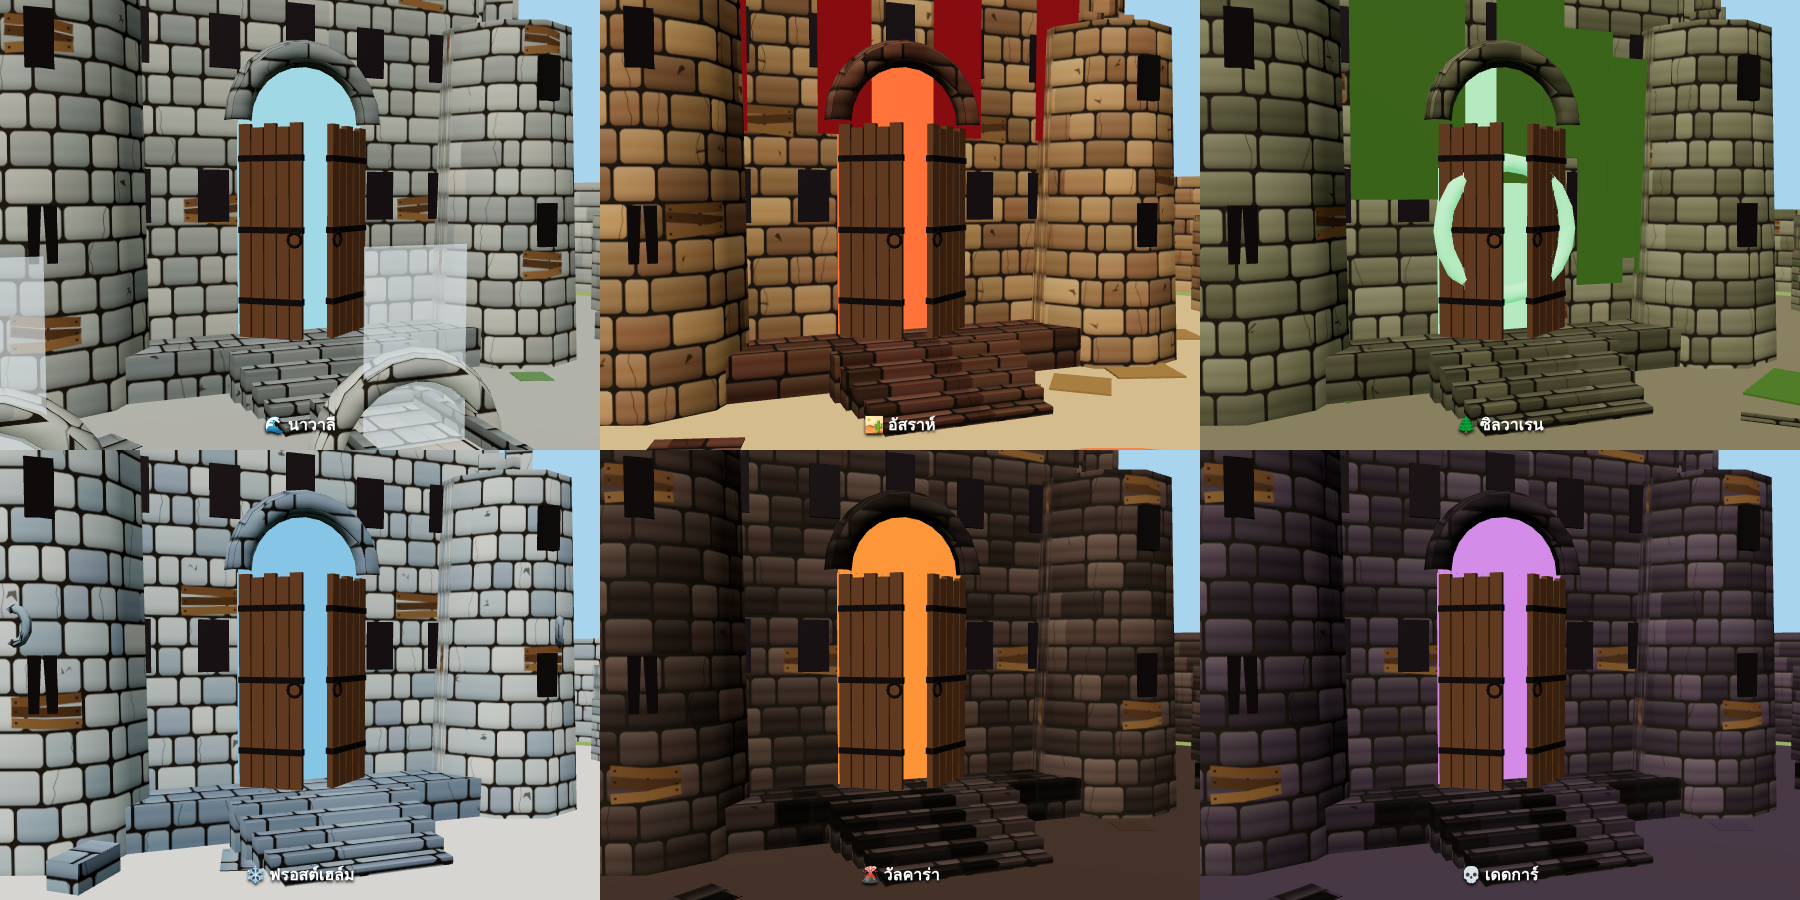
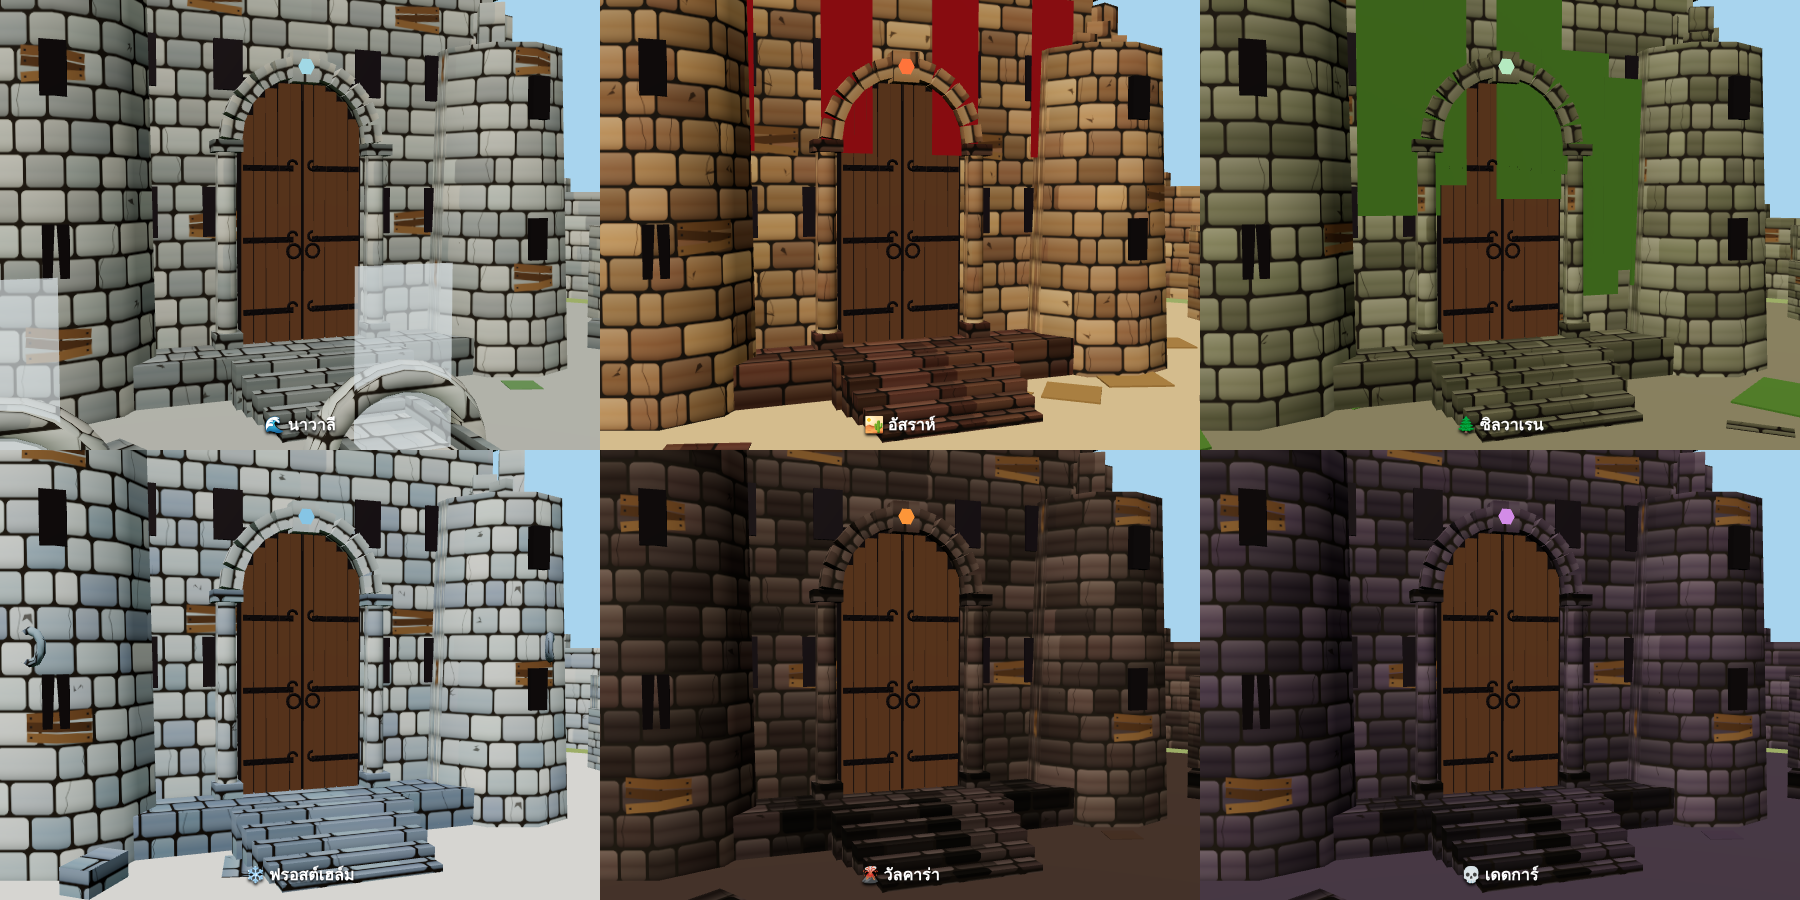
feat(newgame): keep doors closed plank leaves under a wedge-stone arch (strap hinges, studs, rings, columns, a small crest) — no flat light
Claude-Session: https://claude.ai/code/session_01GPWeNez232vT9ersFNk7wt

diff --git a/newgame/src/capitals.js b/newgame/src/capitals.js
@@ -52,15 +52,24 @@ export function buildCapital(k, cx, cz, H, ry = 0) {
   const KZ = -14, KW = 16, KD = 12, KH = 13;
   box(0, 0, KZ, KW + 4, 1.4, KD + 4, M.dark).userData.walk = 1;   /* v3.30.1 the keep's base: stand on it */ box(0, 1.4, KZ, KW, KH, KD, M.stone).userData.roof = 1.4 + KH + 1.2;   /* v3.30.3 a roof you can stand on (landing from the sky never drops you inside) */ box(0, 1.4 + KH, KZ, KW + 1, 1.2, KD + 1, M.dark);
   for (let i = 0; i < 7; i++) box(-KW / 2 + 1.2 + i * (KW - 2.4) / 6, 1.4 + KH + 1.2, KZ + KD / 2 + .2, 1, 1.2, 1, M.dark);   // battlements
-  add(new THREE.BoxGeometry(4.4, 7, .2), M.glow, 0, 1.4 + 3.5, KZ + KD / 2 + .02).userData.nosol = 1; arch(0, 1.4 + 7, KZ + KD / 2 + .55, 2.3, .45, M.dark);   // the doorway (the light inside)
-  { const half = add(new THREE.CircleGeometry(2.2, 20, 0, Math.PI), M.glow, 0, 1.4 + 7, KZ + KD / 2 + .13); half.userData.nosol = 1;   /* the arch above glows too */
-    /* v4.78 designer: "look more like a door" — two old plank leaves standing ajar (opened outwards), iron bands, the light spilling out between them */
-    const z0 = KZ + KD / 2 + .35, a = .62, LW = 2.15, LH = 6.9;
-    for (const sd of [-1, 1]) { const hx = sd * 2.2, dx = -sd * Math.cos(a), dz = Math.sin(a), ryy = sd * a;
-      for (let i = 0; i < 5; i++) { const t = (i + .5) / 5 * LW; const pl = add(new THREE.BoxGeometry(LW / 5 - .04, LH - (i % 2) * .12, .22), M.wood, hx + dx * t, 1.4 + LH / 2 - (i % 2) * .06, z0 + dz * t, 0, ryy, 0); pl.userData.nosol = 1 }
-      for (const yy of [1.2, 3.5, 5.8]) add(new THREE.BoxGeometry(LW, .2, .28), M.void, hx + dx * LW / 2, 1.4 + yy, z0 + dz * LW / 2, 0, ryy, 0).userData.nosol = 1;   // iron bands
-      add(new THREE.TorusGeometry(.22, .05, 6, 12), M.void, hx + dx * (LW - .35), 1.4 + 3.2, z0 + dz * (LW - .35) + .16, 0, ryy, 0).userData.nosol = 1 } }   // ring handles
-  for (const [wx, wy] of [[-5.5, 4.6], [-3, 4.6], [3, 4.6], [5.5, 4.6], [-5.5, 9.6], [-2.6, 9.6], [0, 10.2], [2.6, 9.6], [5.5, 9.6]]) add(new THREE.BoxGeometry(1, 1.7, .12), CAP_WIN, wx, 1.4 + wy, KZ + KD / 2 + .06).userData.nosol = 1;   /* v3.45 the keep's windows */
+  /* v4.78 the keep's door (designer: no flat light — a real door · the pictures were a guide only): two closed plank leaves under a round arch of wedge stones,
+     long iron strap hinges with curled ends, studs, ring handles, two stone columns · only a small crest on the keystone wears the kingdom's colour (gold once restored) */
+  { const fz = KZ + KD / 2, y0 = 1.4, R0 = 2.2, LH = 7, NP = 10, PW = 2 * R0 / NP, iron = M.void;
+    add(new THREE.BoxGeometry(2 * R0 + .2, LH + R0, .3), M.void, 0, y0 + (LH + R0) / 2, fz - .05).userData.nosol = 1;   // the dark recess behind
+    for (let i = 0; i < NP; i++) { const x = -R0 + PW * (i + .5), top = LH + Math.sqrt(Math.max(0, R0 * R0 - x * x)) - .05; const pl = add(new THREE.BoxGeometry(PW - .05, top, .22), M.wood, x, y0 + top / 2, fz + .14, 0, 0, (i % 3 - 1) * .004); pl.userData.nosol = 1 }
+    add(new THREE.BoxGeometry(.08, LH + R0 - .1, .26), iron, 0, y0 + (LH + R0) / 2, fz + .16).userData.nosol = 1;   // the seam between the leaves
+    for (const sd of [-1, 1]) for (const yy of [1.1, 3.6, 6.1]) { const L = R0 * .82; add(new THREE.BoxGeometry(L, .2, .06), iron, sd * (R0 - L / 2 - .05), y0 + yy, fz + .28).userData.nosol = 1;   // strap hinge
+        add(new THREE.TorusGeometry(.16, .05, 6, 12, Math.PI * 1.5), iron, sd * (R0 - L - .02), y0 + yy + .12, fz + .3, 0, 0, sd > 0 ? Math.PI / 2 : 0).userData.nosol = 1;   // its curl
+        for (let n = 0; n < 4; n++) add(new THREE.SphereGeometry(.06, 6, 4), iron, sd * (R0 - .25 - n * L / 4), y0 + yy, fz + .32).userData.nosol = 1 }   // studs
+    for (const sd of [-1, 1]) add(new THREE.TorusGeometry(.24, .05, 6, 14), iron, sd * .35, y0 + 3.2, fz + .36).userData.nosol = 1;   // ring handles
+    /* the arch: wedge stones round the top · a big keystone with the crest */
+    const NV = 11, AR = R0 + .38; for (let i = 0; i < NV; i++) { const a = Math.PI * (i + .5) / NV, key = i === (NV >> 1), sz = key ? [.95, 1.05, .9] : [.62, .7, .8];
+      add(new THREE.BoxGeometry(...sz), M.stone, Math.cos(a) * AR, y0 + LH + Math.sin(a) * AR, fz + .25, 0, 0, a - Math.PI / 2).userData.nosol = 1 }
+    const crest = add(new THREE.CircleGeometry(.3, 6), M.glow, 0, y0 + LH + AR, fz + .71); crest.userData.nosol = 1;
+    /* two columns: base · shaft · capital */
+    for (const sd of [-1, 1]) { const cx2 = sd * (R0 + .55); add(new THREE.BoxGeometry(.95, .5, .95), M.dark, cx2, y0 + .25, fz + .3).userData.nosol = 1; add(new THREE.CylinderGeometry(.34, .38, LH - .9, 12), M.stone, cx2, y0 + .5 + (LH - .9) / 2, fz + .3).userData.nosol = 1;
+      add(new THREE.BoxGeometry(1, .4, 1), M.dark, cx2, y0 + LH - .2, fz + .3).userData.nosol = 1 } }
+  for (const [wx, wy] of [[-5.5, 4.6], [-3, 4.6], [3, 4.6], [5.5, 4.6], [-5.5, 9.6], [-2.6, 9.6], [2.6, 9.6], [5.5, 9.6]]) add(new THREE.BoxGeometry(1, 1.7, .12), CAP_WIN, wx, 1.4 + wy, KZ + KD / 2 + .06).userData.nosol = 1;   /* v3.45 the keep's windows */
   for (const sx of [-1, 1]) for (const wy of [4.6, 9.6]) for (const wz of [-3, 3]) add(new THREE.BoxGeometry(.12, 1.7, 1), CAP_WIN, sx * (KW / 2 + .06), 1.4 + wy, KZ + wz).userData.nosol = 1;
   for (let i = 0; i < 5; i++) box(0, 0, KZ + KD / 2 + 2.6 + i * .7, 6 - i * .3, 1.4 - i * .28, .7, M.dark).userData.walk = 1;   // steps you climb (v3.30.1: were picture-only, you sank into them)
   for (const [tx, tz, broken] of [[-KW / 2, KZ + KD / 2, 0], [KW / 2, KZ + KD / 2, 1], [-KW / 2, KZ - KD / 2, 0], [KW / 2, KZ - KD / 2, 0]]) { const th = broken ? 12 : 22 + R() * 4;
@@ -107,7 +116,7 @@ export function buildCapital(k, cx, cz, H, ry = 0) {
   if (k === 'sylvaren') {   // 🌿 dead twisted trees · ivy curtains · the green portal
     for (const [x, z, kk] of [[-24, 8, 1.6], [24, -2, 1.5], [-8, 24, 1.3], [10, -26, 1.7], [-26, -18, 1.4], [26, 20, 1.6], [6, 10, 1.1], [-6, -26, 1.5]]) deadTree(x, z, kk);
     for (let i = 0; i < 10; i++) box(-KW / 2 + R() * KW, 1.4 + R() * 6, KZ + KD / 2 + .36, 1 + R() * 2, 3 + R() * 6, .12, M.moss).userData.nosol = 1;
-    add(new THREE.TorusGeometry(2.2, .3, 8, 20), M.glow, 0, 1.4 + 3.5, KZ + KD / 2 + .7);
+    /* v4.78 the green ring over the door is gone (the door is a real door now) */
   }
   if (k === 'frosthelm') {   // ❄ ice spires · chains · a rune circle · a frozen fall
     for (let i = 0; i < 10; i++) { const a = i / 10 * 6.28 + .3, r = 22 + R() * 4; if (Math.abs(a - Math.PI / 2) < .5) continue; cone(Math.cos(a) * r, 0, Math.sin(a) * r, 1 + R() * .8, 7 + R() * 7, M.ice, 6) }
